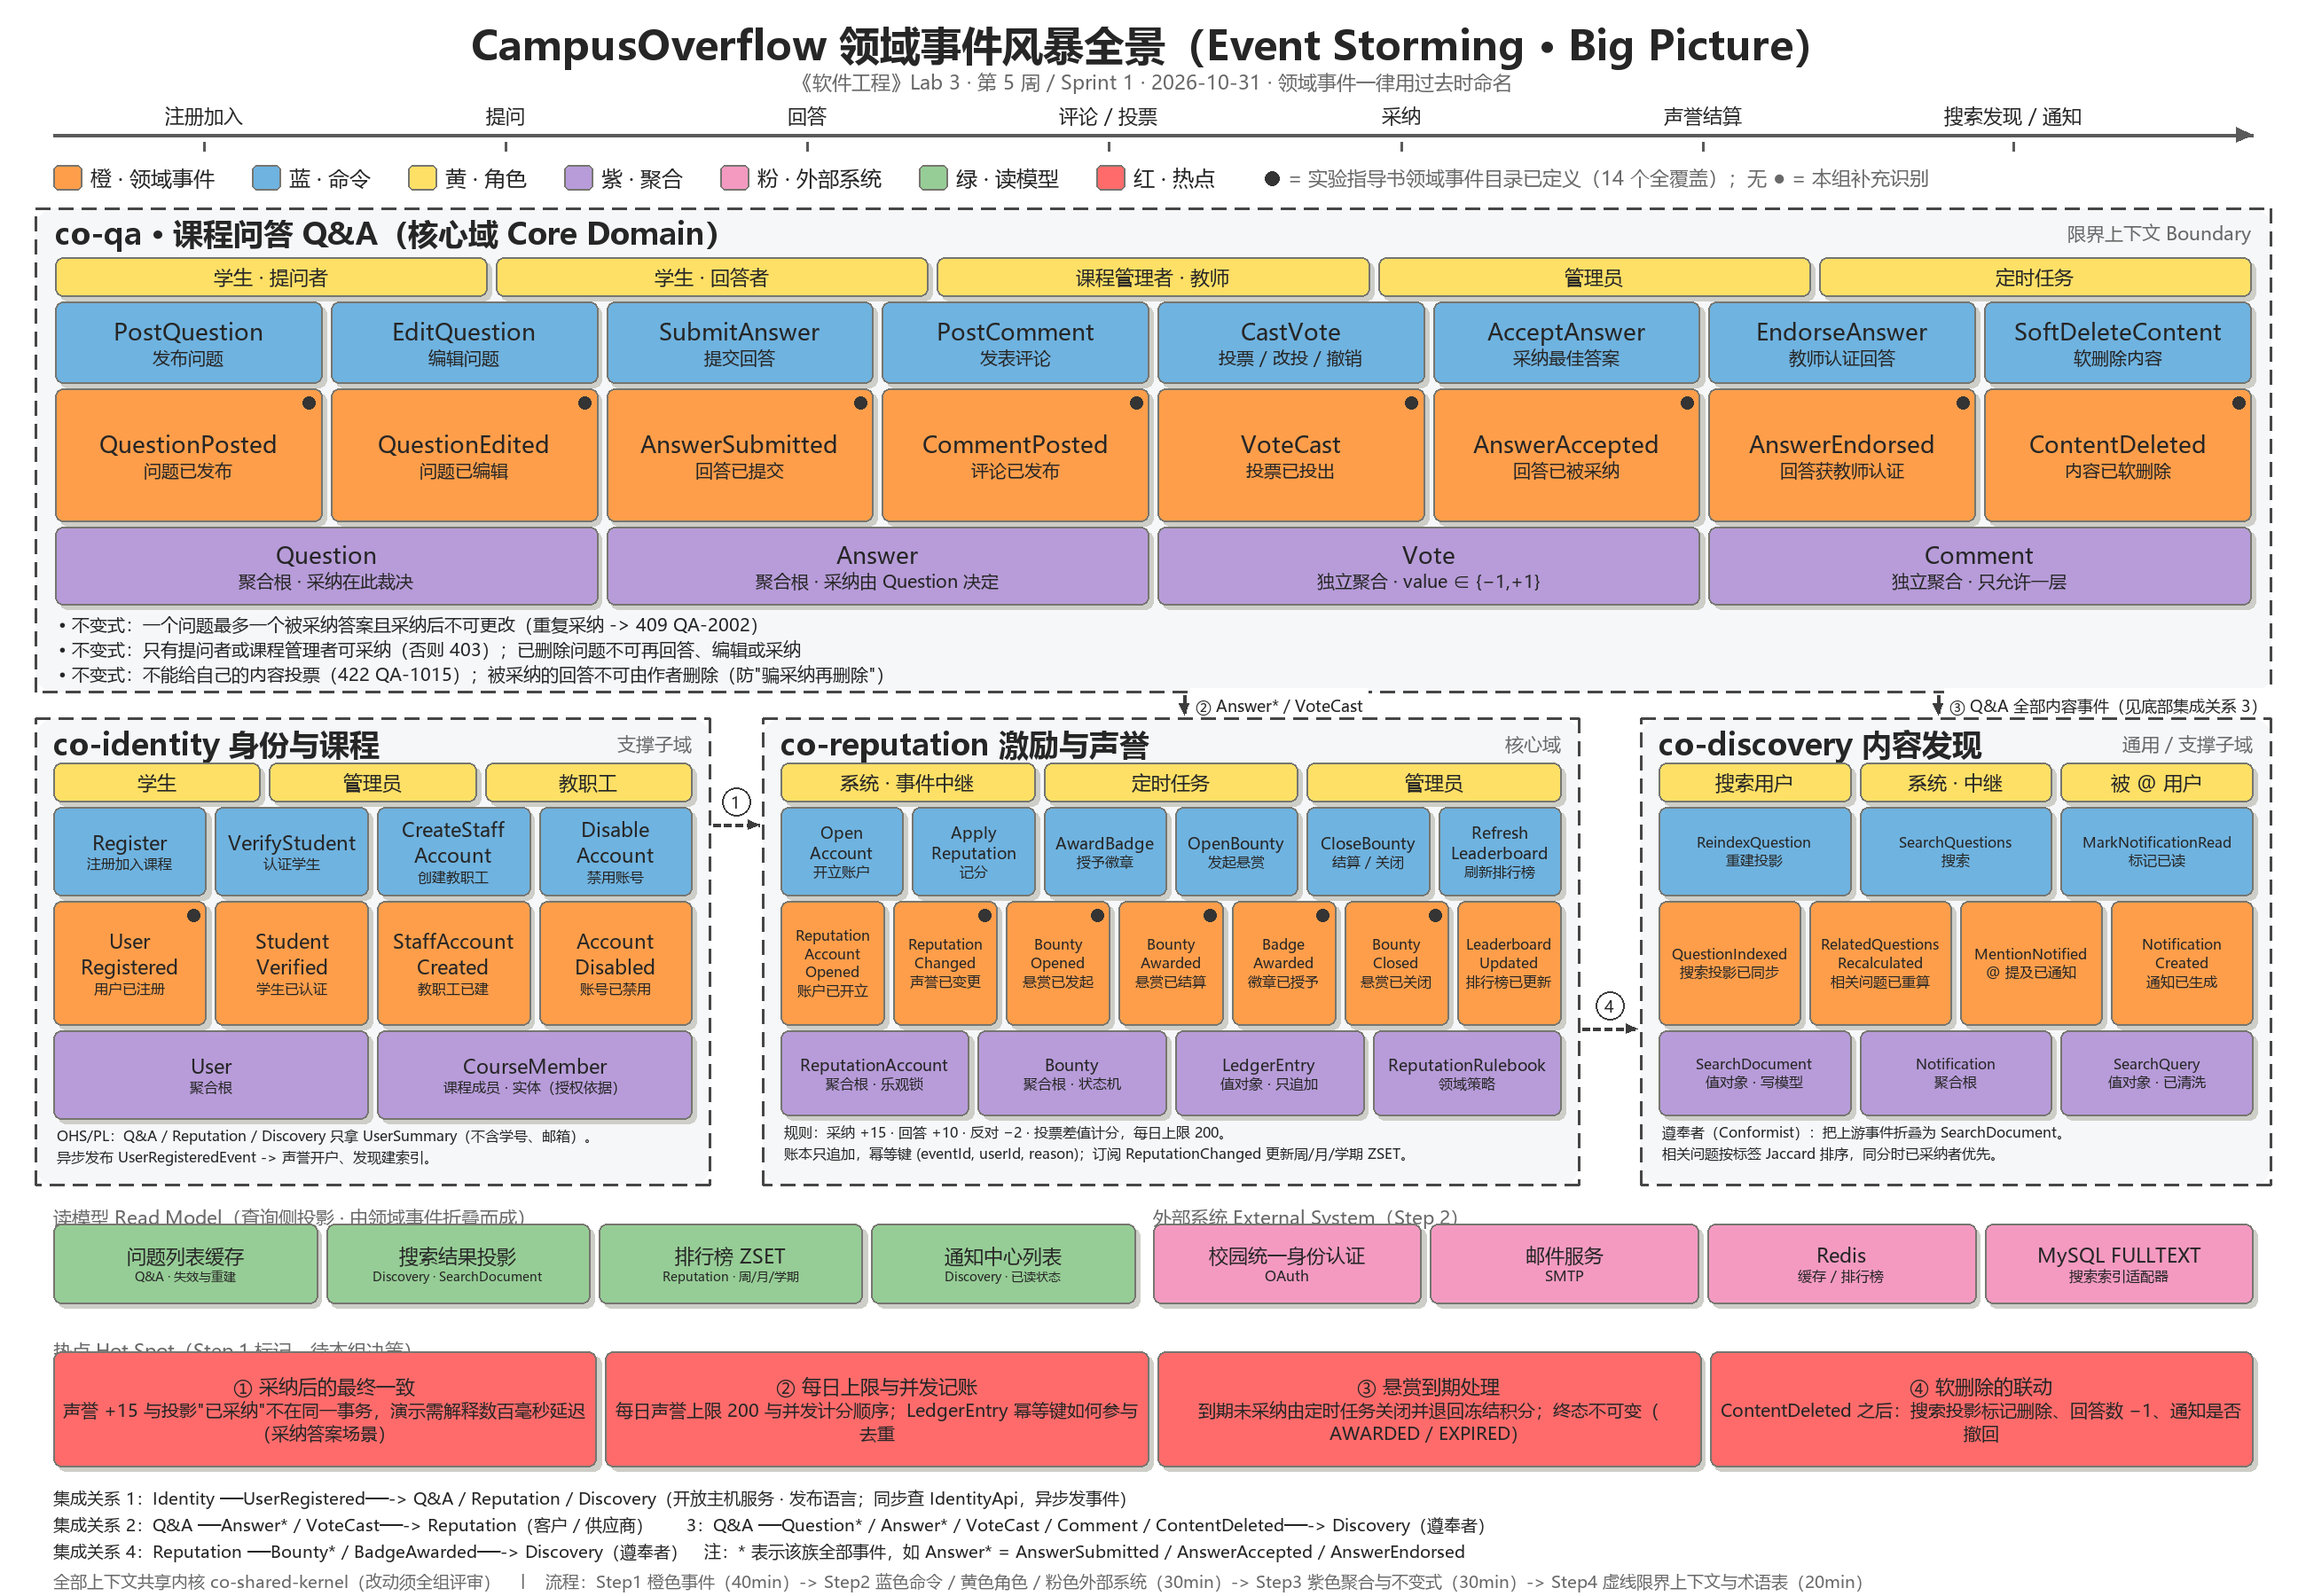
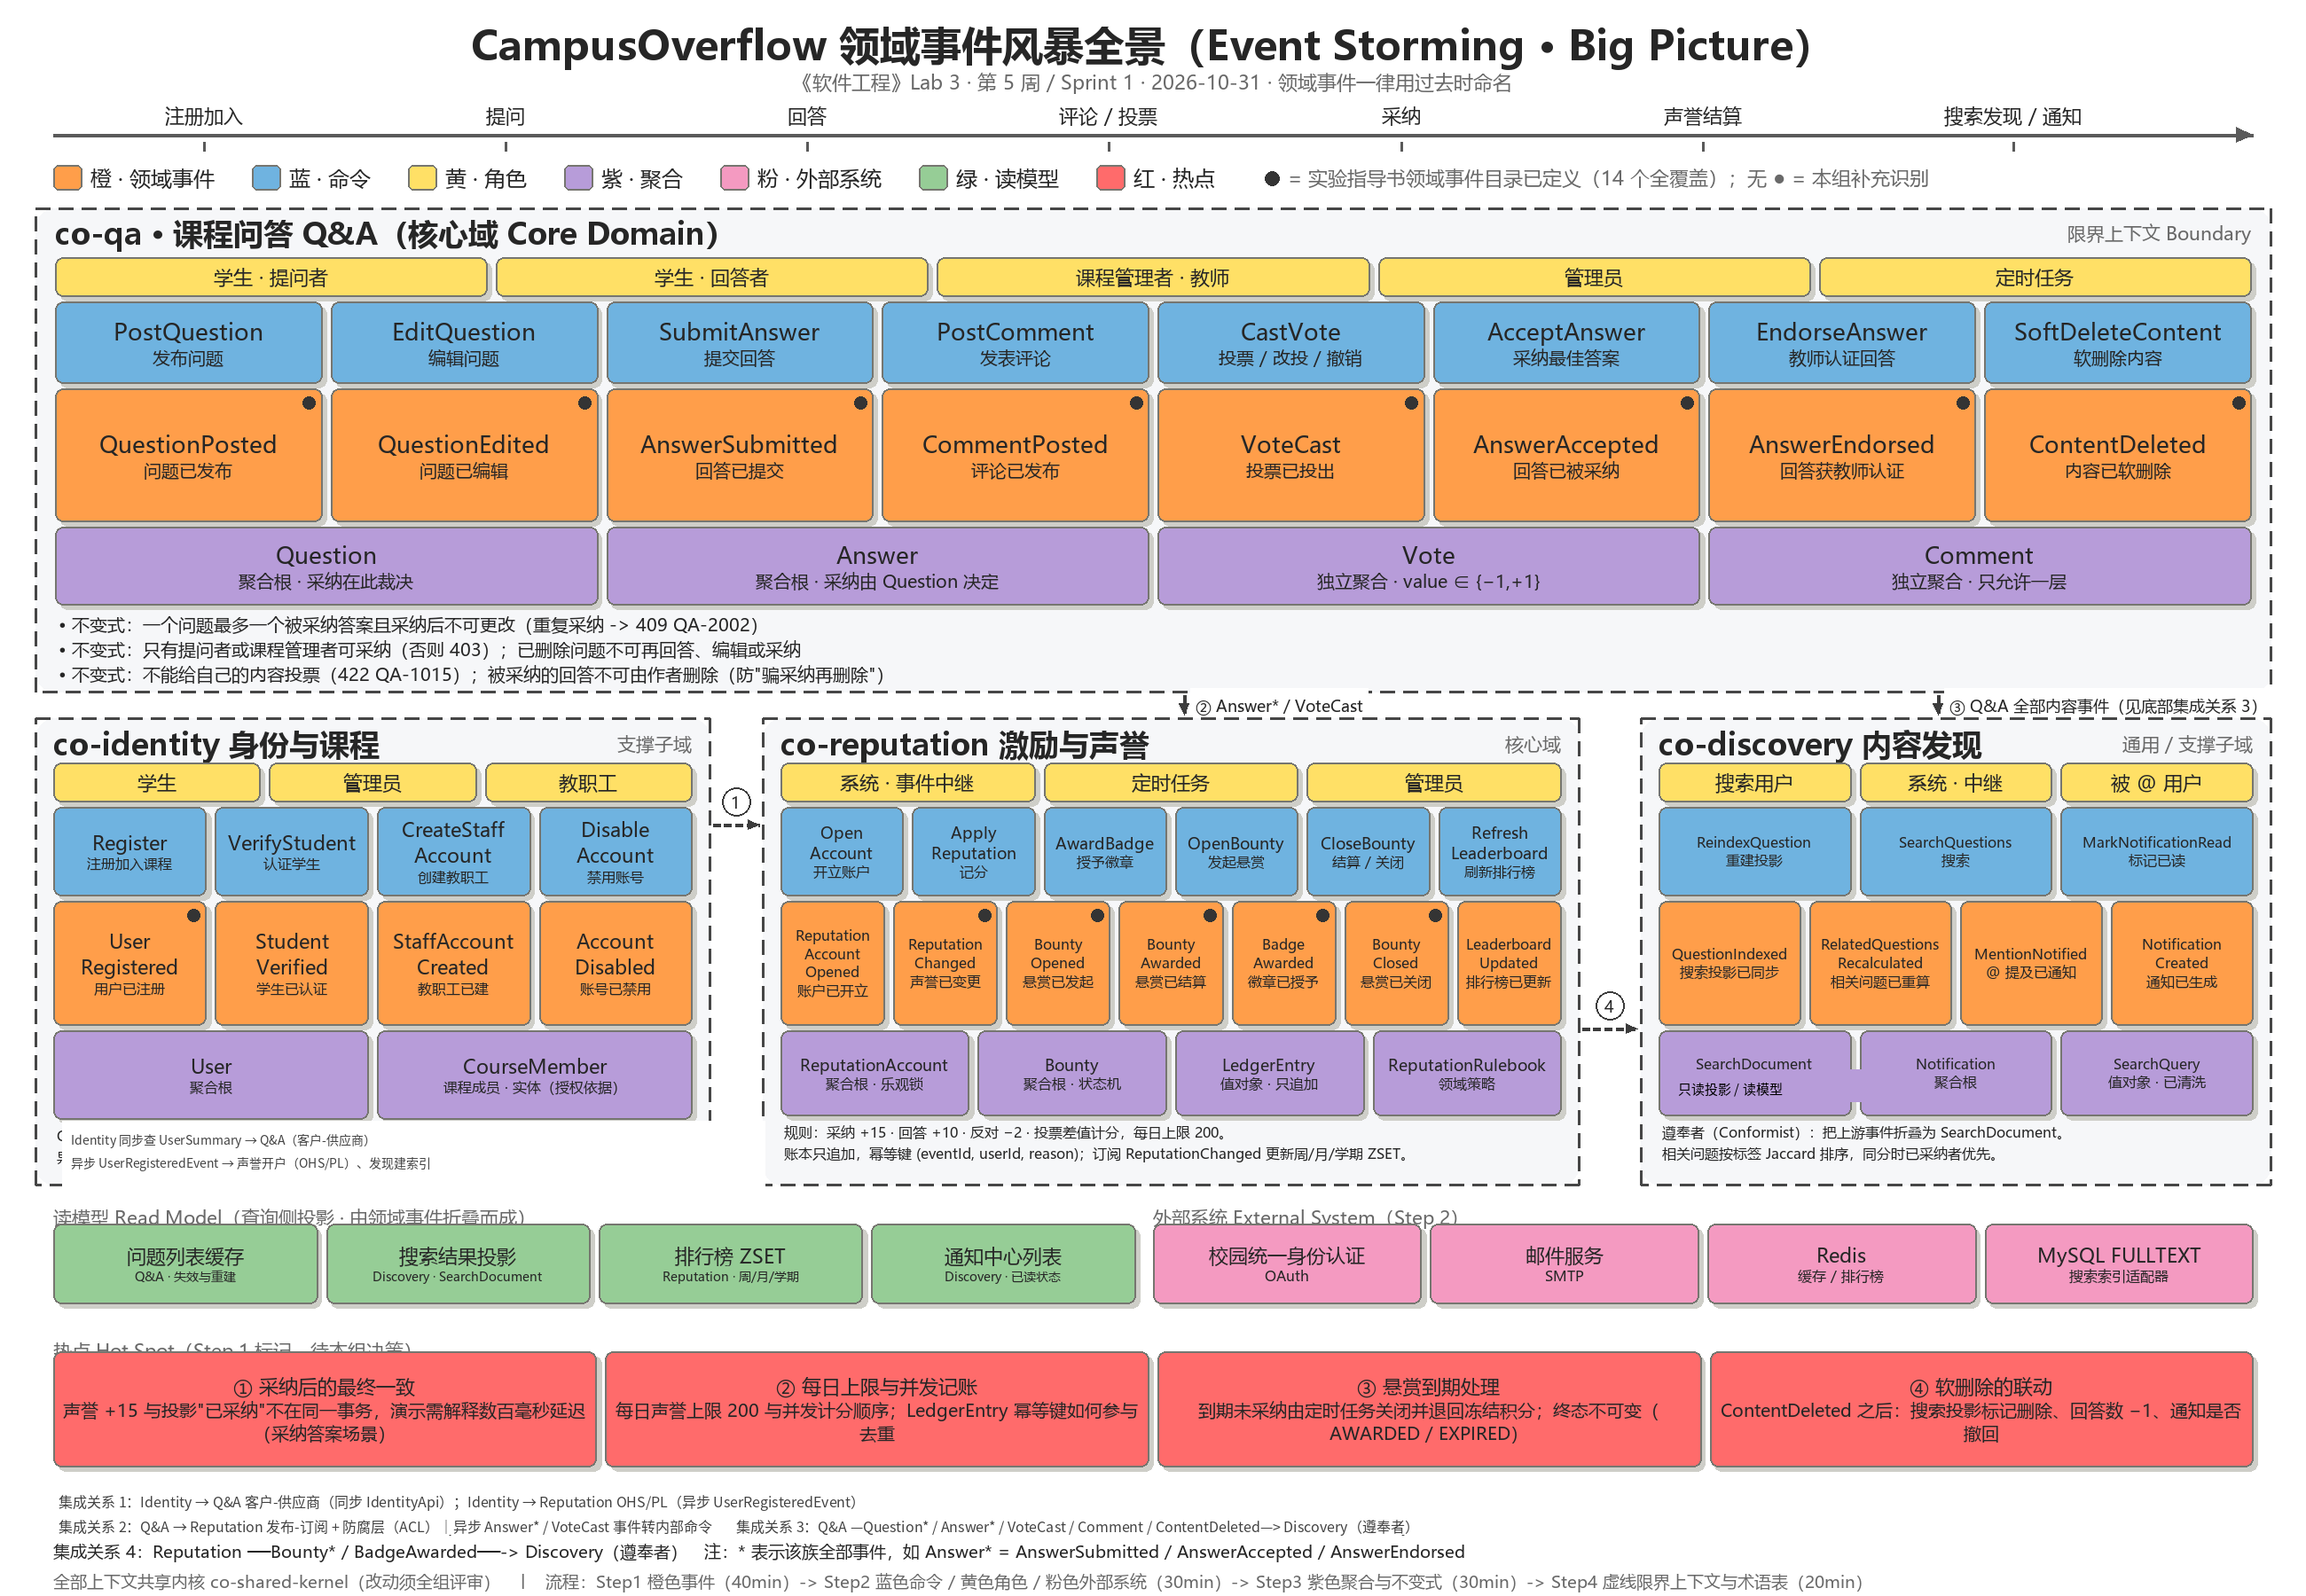
docs(ddd): 修正 event-storming 集成模式标注与 SearchDocument 表述（与 context-map #30 统一）
- Identity→Q&A 改为客户-供应商；Identity→Reputation 单列 OHS/PL
- Q&A→Reputation 改为发布-订阅+ACL
- SearchDocument 由"值对象·写模型"改为"只读投影·读模型"
- 全景图同步更新 4 处标注

Changed region(s): [[0.0, 0.9333, 0.6542, 0.9644], [0.0312, 0.6844, 0.2492, 0.7467], [0.7477, 0.6533, 0.7788, 0.6844]]

diff --git a/docs/ddd/event-storming.md b/docs/ddd/event-storming.md
@@ -63,14 +63,14 @@
 | --- | --- | --- | --- | --- | --- |
 | `co-identity` | 支撑子域 | 学生、管理员、教职工 | Register、VerifyStudent、CreateStaffAccount、DisableAccount | UserRegistered●、StudentVerified、StaffAccountCreated、AccountDisabled | User（聚合根）、CourseMember（实体） |
 | `co-reputation` | 核心域 | 系统·事件中继、定时任务、管理员 | OpenAccount、ApplyReputation、AwardBadge、OpenBounty、CloseBounty、RefreshLeaderboard | ReputationAccountOpened、ReputationChanged●、BountyOpened●、BountyAwarded●、BadgeAwarded●、BountyClosed●、LeaderboardUpdated | ReputationAccount（聚合根·乐观锁）、Bounty（聚合根·状态机）、LedgerEntry（值对象·只追加）、ReputationRulebook（领域策略） |
-| `co-discovery` | 通用 / 支撑子域 | 搜索用户、系统·中继、被 @ 用户 | ReindexQuestion、SearchQuestions、MarkNotificationRead | QuestionIndexed、RelatedQuestionsRecalculated、MentionNotified、NotificationCreated | SearchDocument（值对象·写模型）、Notification（聚合根）、SearchQuery（值对象·已清洗） |
+| `co-discovery` | 通用 / 支撑子域 | 搜索用户、系统·中继、被 @ 用户 | ReindexQuestion、SearchQuestions、MarkNotificationRead | QuestionIndexed、RelatedQuestionsRecalculated、MentionNotified、NotificationCreated | SearchDocument（只读投影·读模型）、Notification（聚合根）、SearchQuery（值对象·已清洗） |
 
 ### 第 5 层：底部四块
 
 - **绿的读模型**：问题列表缓存（Q&A）、搜索结果投影（Discovery）、排行榜 ZSET（Reputation）、通知中心列表（Discovery）。注意它们分别挂在**哪个上下文**下面——读模型不是全局共享的。
 - **粉的外部系统**：校园统一身份认证（OAuth）、邮件服务（SMTP）、Redis、MySQL FULLTEXT。放在这里是为了标清"哪些复杂度不归我们"。
 - **红的热点**：见第 6 节。
-- **最底部两行文字**：4 条跨上下文集成关系 + 共享内核声明 + 本次四步流程的时长。
+- **最底部两行文字**：5 条跨上下文集成关系 + 共享内核声明 + 本次四步流程的时长。
 
 ---
 
@@ -81,7 +81,7 @@
 | Step 1 Big Picture | 40 min | 全部橙贴（先只贴事件，不写命令） |
 | Step 2 Process Modeling | 30 min | 蓝贴（命令）、黄贴（角色）、粉贴（外部系统） |
 | Step 3 Software Design | 30 min | 紫贴（聚合 / 值对象）+ Q&A 框内三条不变式 |
-| Step 4 上下文映射与术语表 | 20 min | 四个虚线块（限界上下文）+ 底部 4 条集成关系 |
+| Step 4 上下文映射与术语表 | 20 min | 四个虚线块（限界上下文）+ 底部 5 条集成关系 |
 
 ---
 
@@ -128,10 +128,11 @@
 
 | 编号 | 上游 → 下游 | 模式 | 载体 |
 | --- | --- | --- | --- |
-| 1 | Identity → Q&A / Reputation / Discovery | 开放主机服务 + 发布语言（OHS/PL） | 同步：`IdentityApi` 查 `UserSummary`；异步：`UserRegisteredEvent` |
-| 2 | Q&A → Reputation | 客户 / 供应商（Customer/Supplier） | `Answer*` / `VoteCast` 事件；同步补数据走 `QaQueryApi.findQuestion` |
-| 3 | Q&A → Discovery | 遵奉者（Conformist） | `Question*` / `Answer*` / `VoteCast` / `Comment` / `ContentDeleted` 事件 |
-| 4 | Reputation → Discovery | 遵奉者（Conformist） | `Bounty*` / `BadgeAwarded` 事件 |
+| 1 | Identity → Q&A | 客户-供应商（Customer/Supplier） | 同步：`IdentityApi` 查询当前用户与角色 |
+| 2 | Identity → Reputation | 开放主机服务 + 发布语言（OHS/PL） | 异步：`UserRegisteredEvent` 触发开户 |
+| 3 | Q&A → Reputation | 发布-订阅（Pub/Sub）+ 防腐层（ACL） | `Answer*` / `VoteCast` 事件；Reputation 用 ACL 转内部命令 |
+| 4 | Q&A → Discovery | 遵奉者（Conformist） | `Question*` / `Answer*` / `VoteCast` / `Comment` / `ContentDeleted` 事件 |
+| 5 | Reputation → Discovery | 遵奉者（Conformist） | `Bounty*` / `BadgeAwarded` 事件 |
 | — | 全部上下文 → `co-shared-kernel` | 共享内核（Shared Kernel） | Maven 依赖 |
 
 ---
